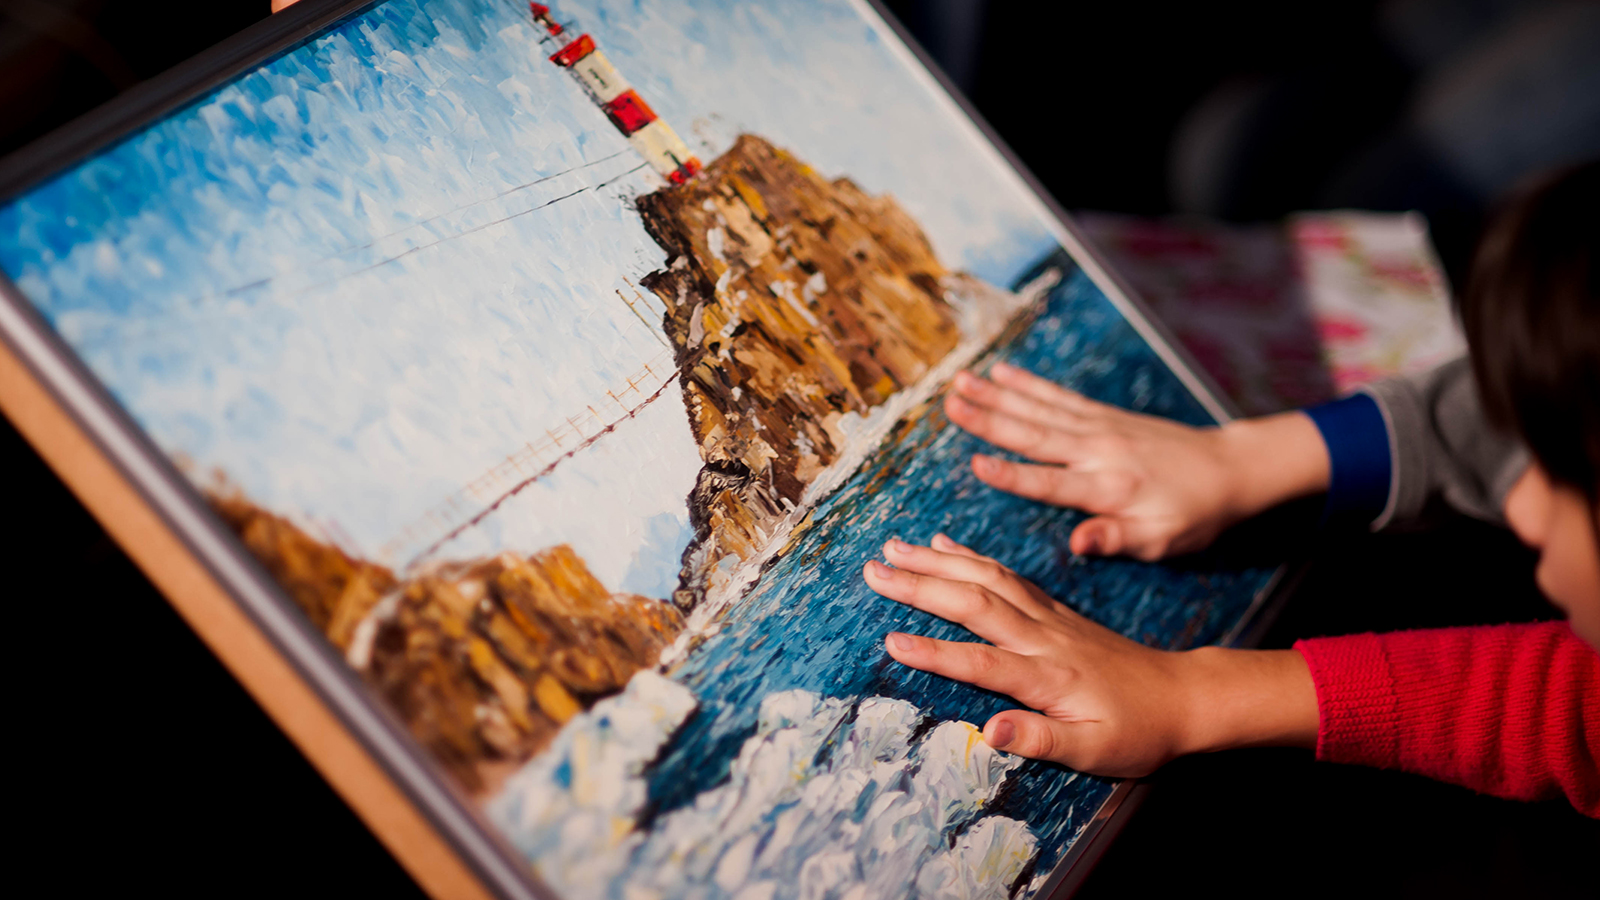
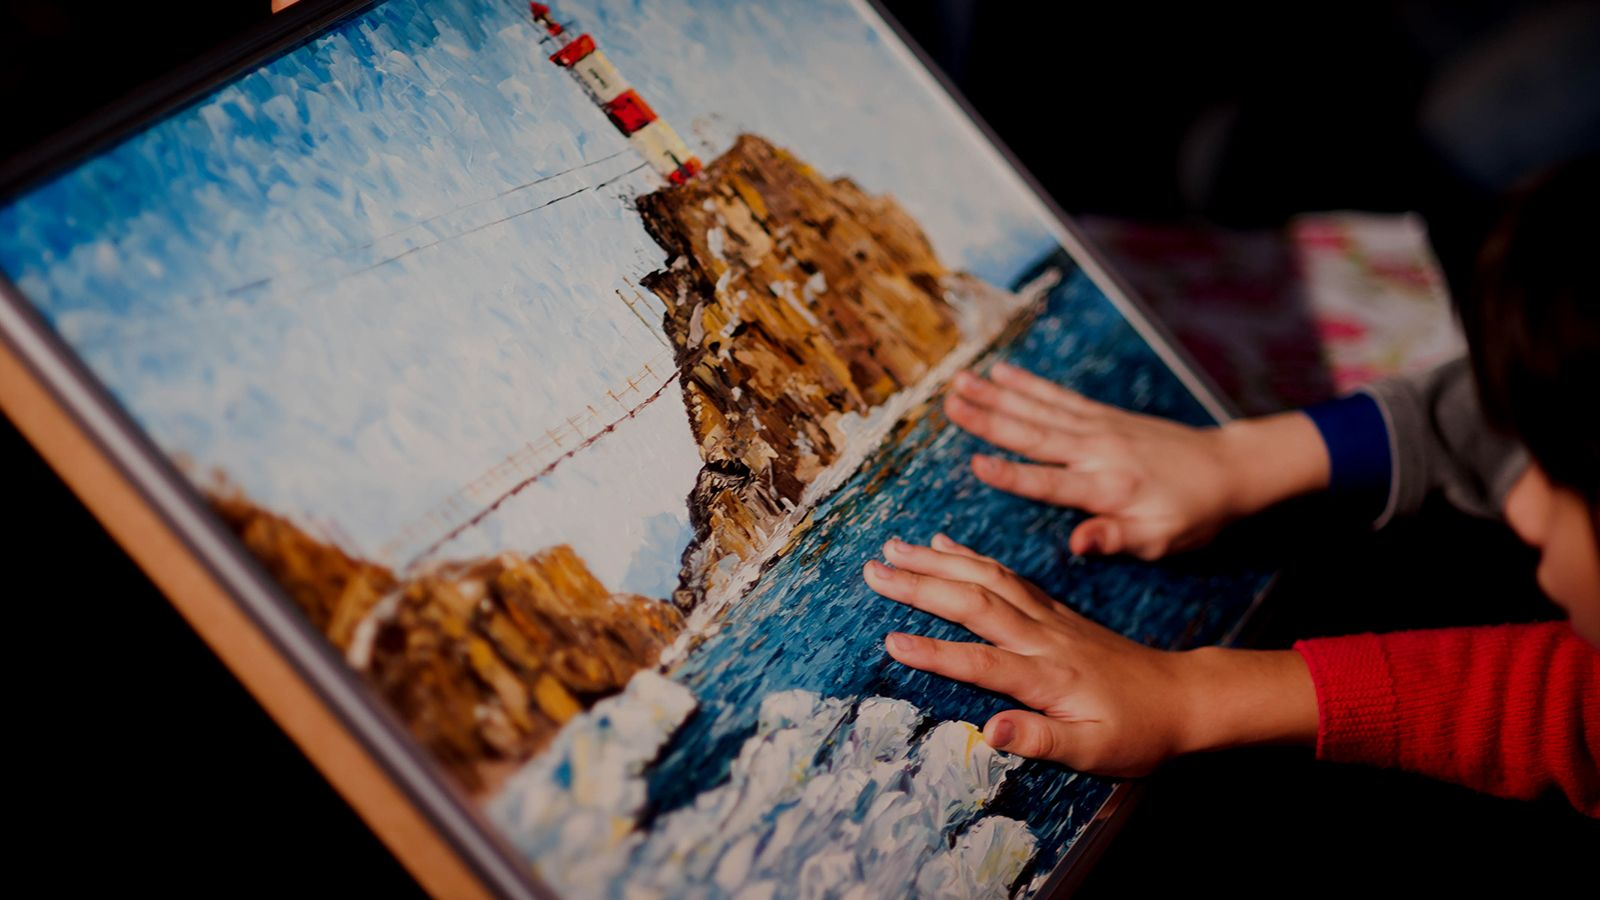
WIP: texts&images

diff --git a/static/css/style.css b/static/css/style.css
@@ -218,8 +218,8 @@ section{
     box-shadow:0 0 7px rgba(0,0,0,0.2) inset;
 }
 .fixed-bg.stop{background-attachment:scroll!important}
-.bg6{background-image:url(../images/main.jpg)}
-.bg2{background-image:url(../images/parallax.jpg)}background-position:bottom}
+.bg6{background-image:url(../images/main1.jpg)}
+.bg2{background-image:url(../images/boy.jpg)}background-position:bottom}
 .pattern{background-image:url(../images/pattern.jpg)}
 .blackish:before, .whitish:before, .half-gray:before,
 .coloured:before{
